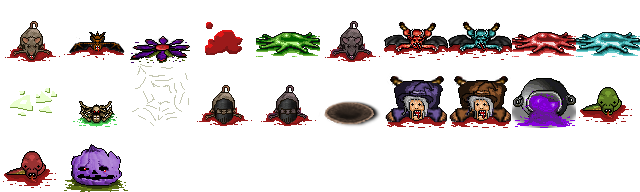
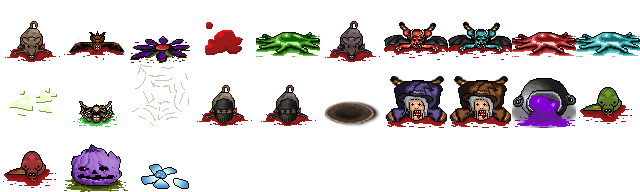
ADD New monster: Evil Edelweiss

Changed region(s): [[0.2188, 0.8438, 0.3125, 1.0]]

diff --git a/src/EvilFlowerEntity.cpp b/src/EvilFlowerEntity.cpp
@@ -32,7 +32,7 @@ EvilFlowerEntity::EvilFlowerEntity(float x, float y, flowerTypeEnum flowerType)
   {
     frame = 3;
     enemyType = EnemyTypeEvilFlowerIce;
-    deathFrame = FRAME_CORPSE_FLOWER;
+    deathFrame = FRAME_CORPSE_FLOWER_ICE;
   }
 
   fireDelay = EVIL_FLOWER_FIRE_DELAY;
@@ -74,17 +74,40 @@ void EvilFlowerEntity::fire()
 {
     SoundManager::getInstance().playSound(SOUND_BLAST_FLOWER);
 
-    enumShotType shotType = ShotTypeStandard;
-    if (flowerType == FlowerTypeIce) shotType = ShotTypeIce;
+    if (flowerType == FlowerTypeIce)
+    {
+      for (int i = 0; i < 2; i++)
+      {
+        EnemyBoltEntity* bolt = new EnemyBoltEntity
+            (x, y + 10, ShotTypeIce, 0, enemyType);
+        bolt->setDamages(EVIL_FLOWER_MISSILE_DAMAGES);
+        bolt->setMap(map, TILE_WIDTH, TILE_HEIGHT, OFFSET_X, OFFSET_Y);
 
-    EnemyBoltEntity* bolt = new EnemyBoltEntity
-          (x, y + 10, shotType, 0, enemyType);
-    bolt->setDamages(EVIL_FLOWER_MISSILE_DAMAGES);
-    bolt->setMap(map, TILE_WIDTH, TILE_HEIGHT, OFFSET_X, OFFSET_Y);
+        float flowerFireVelocity = EVIL_FLOWER_FIRE_VELOCITY;
 
-    float flowerFireVelocity = EVIL_FLOWER_FIRE_VELOCITY;
-    if (specialState[SpecialStateIce].active) flowerFireVelocity *= 0.5f;
-    bolt->setVelocity(Vector2D(x, y).vectorTo(game().getPlayerPosition(), flowerFireVelocity ));
+        float fireAngle = Vector2D(x, y).angleTo(game().getPlayerPosition());
+        std::cout << fireAngle << " - " << fireAngle * 360 / (2 * PI) << std::endl;
+        if (i == 0) fireAngle += 0.1f;
+        else fireAngle -= 0.1f;
+
+        if (game().getPlayerPosition().y > y)
+          bolt->setVelocity(Vector2D(sin(fireAngle) * flowerFireVelocity, cos(fireAngle) * flowerFireVelocity));
+        else
+          bolt->setVelocity(Vector2D(-sin(fireAngle) * flowerFireVelocity, -cos(fireAngle) * flowerFireVelocity));
+      }
+    }
+    else
+    {
+      EnemyBoltEntity* bolt = new EnemyBoltEntity
+            (x, y + 10, ShotTypeStandard, 0, enemyType);
+      bolt->setDamages(EVIL_FLOWER_MISSILE_DAMAGES);
+      bolt->setMap(map, TILE_WIDTH, TILE_HEIGHT, OFFSET_X, OFFSET_Y);
+
+      float flowerFireVelocity = EVIL_FLOWER_FIRE_VELOCITY;
+      if (specialState[SpecialStateIce].active) flowerFireVelocity *= 0.5f;
+      bolt->setVelocity(Vector2D(x, y).vectorTo(game().getPlayerPosition(), flowerFireVelocity ));
+    }
+
 }
 
 void EvilFlowerEntity::render(sf::RenderTarget* app)

diff --git a/src/StandardRoomGenerator.h b/src/StandardRoomGenerator.h
@@ -109,6 +109,7 @@ void generateStandardRoom03()
     game().findPlaceMonsters(EnemyTypeEvilFlower, 4 + rand() % 2);
     if (rand() % 3 == 0) game().findPlaceMonsters(EnemyTypeImpBlue, 1);
     if (rand() % 3 == 0) game().findPlaceMonsters(EnemyTypePumpkin, 1);
+    if (rand() % 3 == 0) game().findPlaceMonsters(EnemyTypeEvilFlowerIce, 1);
   }
   else if (random < 64)
   {
@@ -170,9 +171,20 @@ void generateStandardRoom04()
   else if (random < 48)
   {
     game().getCurrentMap()->generateRoomRandom(rand() % ROOM_TYPE_ALL);
-    game().findPlaceMonsters(EnemyTypeEvilFlower, 5);
+    game().findPlaceMonsters(EnemyTypeEvilFlower, 4);
     if (rand() % 2 == 0) game().findPlaceMonsters(EnemyTypePumpkin, 2 + rand() % 2);
     else game().findPlaceMonsters(EnemyTypeImpBlue, 2);
+
+    if (rand() % 2 == 0)
+    {
+      game().findPlaceMonsters(EnemyTypePumpkin, 2 + rand() % 2);
+      game().findPlaceMonsters(EnemyTypeEvilFlowerIce, 1 + rand() % 2);
+    }
+    else
+    {
+      game().findPlaceMonsters(EnemyTypeImpBlue, 3);
+      game().findPlaceMonsters(EnemyTypeEvilFlower, 1);
+    }
   }
   else if (random < 64)
   {
@@ -248,9 +260,17 @@ void generateStandardRoom05()
   else if (random < 48)
   {
     game().getCurrentMap()->generateRoomRandom(rand() % ROOM_TYPE_ALL);
-    game().findPlaceMonsters(EnemyTypeEvilFlower, 5);
-    if (rand() % 2 == 0) game().findPlaceMonsters(EnemyTypePumpkin, 2 + rand() % 4);
-    else game().findPlaceMonsters(EnemyTypeImpBlue, 3);
+    game().findPlaceMonsters(EnemyTypeEvilFlower, 3);
+    if (rand() % 2 == 0)
+    {
+      game().findPlaceMonsters(EnemyTypePumpkin, 2 + rand() % 4);
+      game().findPlaceMonsters(EnemyTypeEvilFlowerIce, 2);
+    }
+    else
+    {
+      game().findPlaceMonsters(EnemyTypeImpBlue, 3);
+      game().findPlaceMonsters(EnemyTypeEvilFlower, 2);
+    }
   }
   else if (random < 64)
   {
